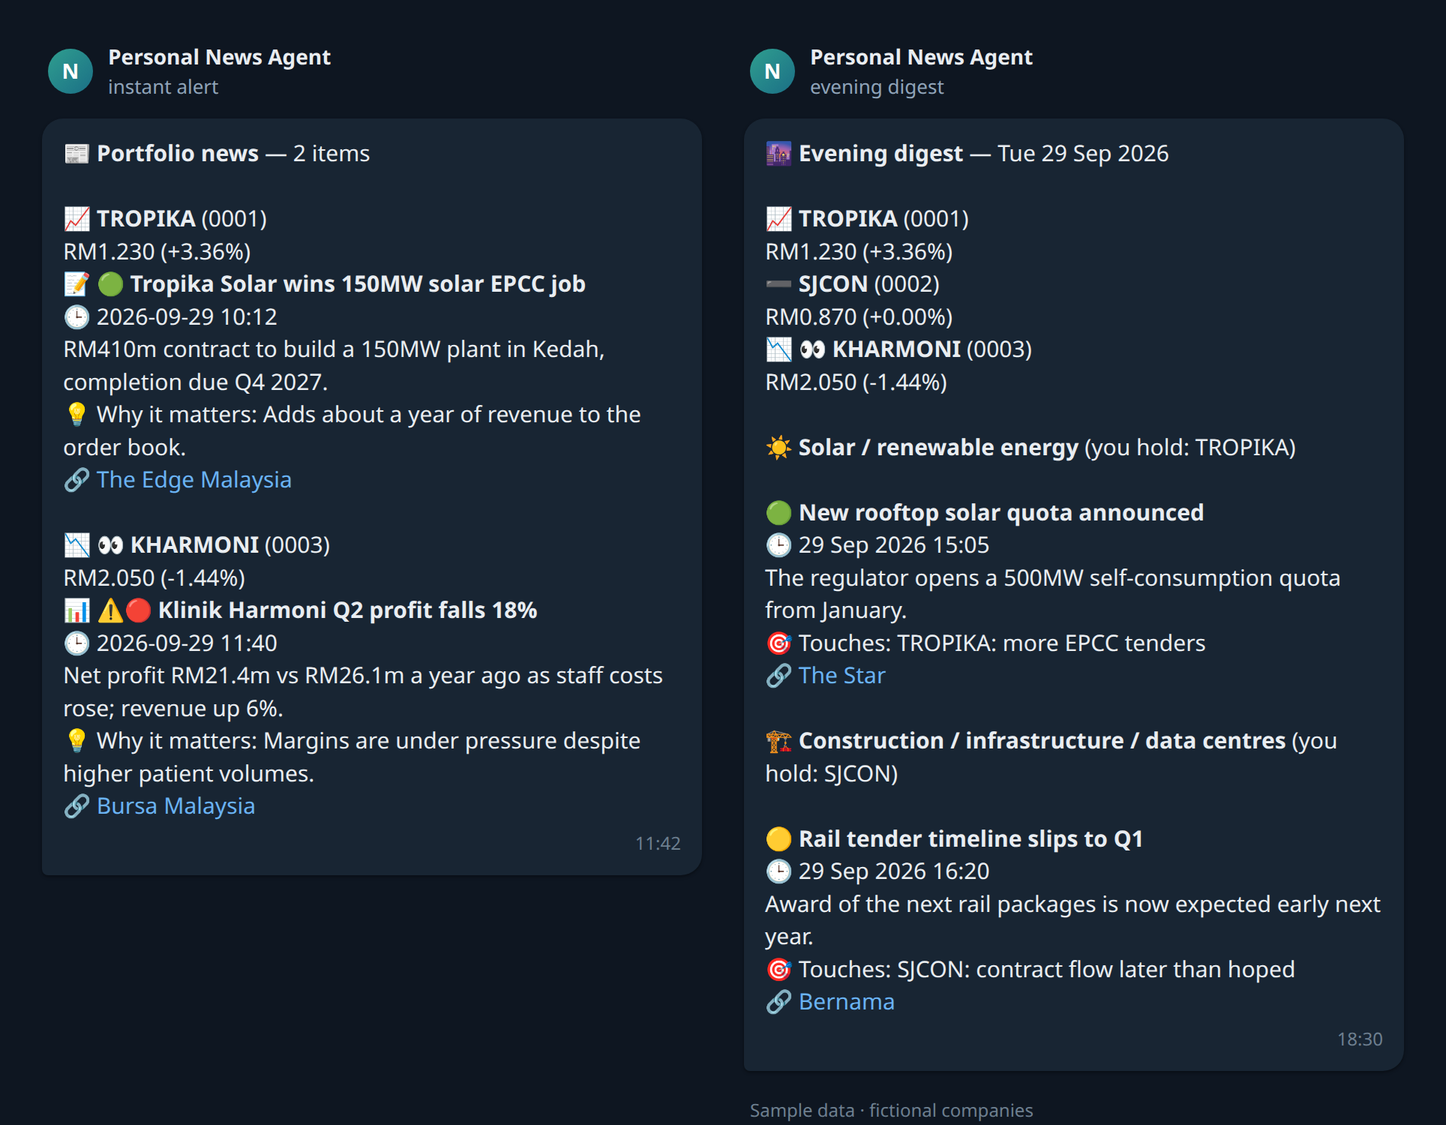
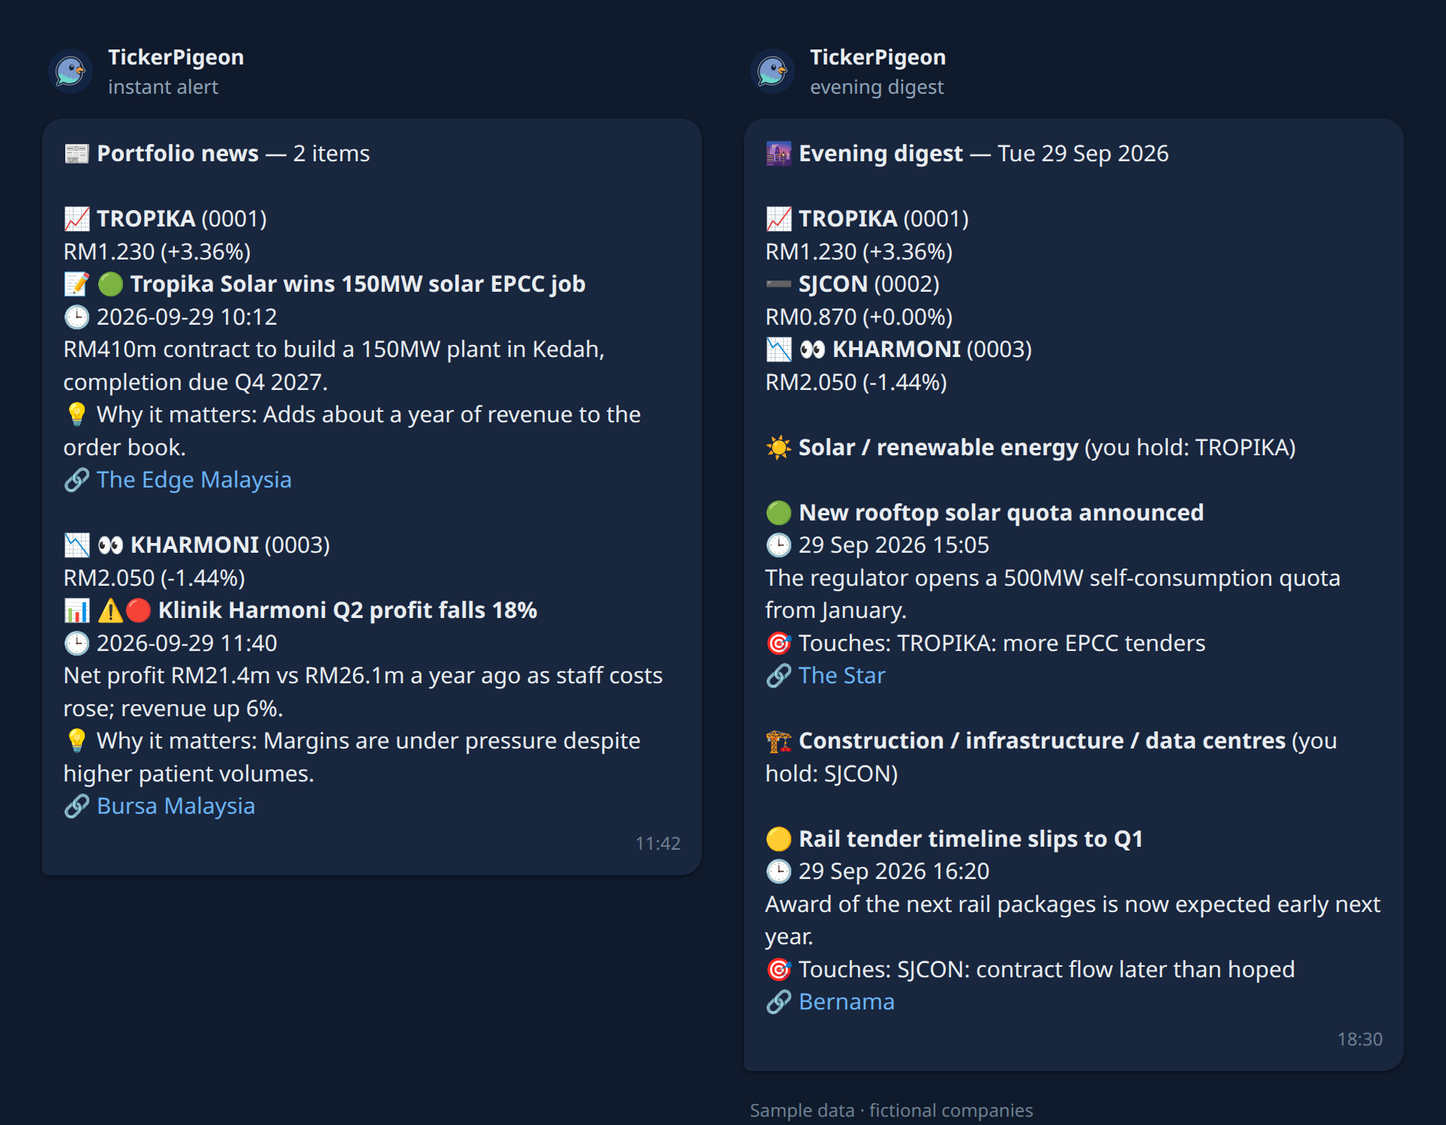
feat: rebrand to TickerPigeon
- Name: TickerPigeon everywhere (README, installer, setup wizard,
  --version, chat test message, skill descriptions, dashboard); repo
  URLs move to hanzong111/TickerPigeon, default install dir ~/TickerPigeon
- Brand assets in docs/brand/ (banner, social preview, logo, mark, bot
  avatar, Pip in five poses, palette tokens) with a short usage guide
- README: banner header with the brand tagline, Pip beside the feature,
  install, chat and FAQ sections
- Example screenshot regenerated with the TickerPigeon avatar and navy
- Dashboard: TickerPigeon title and favicon

Claude-Session: https://claude.ai/code/session_01LKwjQ8yWx4Jfha9MPzGwXt
(cherry picked from commit 04a10c3323f288a21396e7022aad226d8899b29b)

Changed region(s): [[0.4979, 0.0311, 0.7158, 0.0933], [0.0311, 0.0311, 0.249, 0.0933]]

diff --git a/pipeline/dashboard/static/index.html b/pipeline/dashboard/static/index.html
@@ -3,7 +3,9 @@
 <head>
 <meta charset="utf-8">
 <meta name="viewport" content="width=device-width, initial-scale=1">
-<title>Hermes Pipeline Arcade</title>
+<title>TickerPigeon · Pipeline Arcade</title>
+<link rel="icon" href="/static/favicon.ico" sizes="any">
+<meta name="theme-color" content="#18263E">
 <link rel="preconnect" href="https://fonts.googleapis.com">
 <link href="https://fonts.googleapis.com/css2?family=Press+Start+2P&family=VT323&display=swap" rel="stylesheet">
 <link rel="stylesheet" href="/static/style.css">
@@ -22,7 +24,7 @@
     <span class="logo" aria-hidden="true">H</span>
     <div class="brand-copy">
       <span class="eyebrow">WORLD 01 · MARKET OPS</span>
-      <h1>PIPELINE ARCADE</h1>
+      <h1>TICKERPIGEON</h1>
     </div>
     <span class="sub">BURSA · NEWS · HERMES</span>
   </div>

diff --git a/docs/brand/brand-tokens.css b/docs/brand/brand-tokens.css
@@ -1,0 +1,11 @@
+/* TickerPigeon brand palette */
+:root {
+  --tp-navy: #18263E;
+  --tp-slate: #7B91B9;
+  --tp-teal: #56B7AF;
+  --tp-orange: #F2A65A;
+  --tp-ivory: #FAF8F4;
+  --tp-text: var(--tp-navy);
+  --tp-background: var(--tp-ivory);
+  --tp-font: ui-sans-serif, system-ui, -apple-system, BlinkMacSystemFont, "Segoe UI", sans-serif;
+}

diff --git a/pipeline/setup.py b/pipeline/setup.py
@@ -52,7 +52,7 @@ def target(p: dict) -> str:
 
 
 def send_test(dest: str, run=subprocess.run) -> str:
-    msg = ("✅ Personal News Agent is connected.\n"
+    msg = ("✅ TickerPigeon is connected.\n"
            "Alerts, digests and reviews for your Bursa stocks will arrive here.")
     try:
         r = run(["hermes", "send", "-q", "-t", dest, msg], capture_output=True, text=True, timeout=60)
@@ -149,7 +149,7 @@ def apply(p: dict, dry_run: bool = False, jobs_file: Path | None = None, run=sub
 
 def cmd_status(_a) -> int:
     cfg, p = config.load(), prefs.load()
-    print(f"Personal News Agent {__version__}")
+    print(f"TickerPigeon {__version__}")
     print(f"Set up: {'yes' if onboarded(cfg) else 'no — run the setup flow'}")
     print("\n".join(portfolio_lines(cfg)))
     print("Messages:" + ("" if p["_exists"] else " (defaults — not chosen yet)"))
@@ -392,7 +392,7 @@ class Wizard:
 
     def run(self) -> int:
         cfg, p, data = config.load(), prefs.load(), portfolio.read()
-        self.say("Personal News Agent — setup\n"
+        self.say("TickerPigeon — setup\n"
                  "Four steps: the stocks you hold, a watchlist, your chat app, and which messages you want when.\n")
         if data["holdings"] or data["watchlist"]:
             self.say("\n".join(portfolio_lines(cfg)))
@@ -428,7 +428,7 @@ class Wizard:
 
 def main(argv=None) -> int:
     ap = argparse.ArgumentParser(prog="python -m pipeline.setup", description="Portfolio + news preference setup.")
-    ap.add_argument("--version", action="version", version=f"Personal News Agent {__version__}")
+    ap.add_argument("--version", action="version", version=f"TickerPigeon {__version__}")
     sub = ap.add_subparsers(dest="cmd")
     sub.add_parser("status")
     f = sub.add_parser("find"); f.add_argument("query")

diff --git a/tests/test_versioning.py b/tests/test_versioning.py
@@ -22,8 +22,8 @@ CHANGELOG = """# Changelog
 
 First public release.
 
-[Unreleased]: https://github.com/hanzong111/Personal-News-Agent/compare/v1.0.0...HEAD
-[1.0.0]: https://github.com/hanzong111/Personal-News-Agent/releases/tag/v1.0.0
+[Unreleased]: https://github.com/hanzong111/TickerPigeon/compare/v1.0.0...HEAD
+[1.0.0]: https://github.com/hanzong111/TickerPigeon/releases/tag/v1.0.0
 """
 
 
@@ -50,8 +50,8 @@ class BumpTest(unittest.TestCase):
     def test_changelog_moves_unreleased_notes_under_new_version(self):
         out = bump_version.changelog(CHANGELOG, "1.0.0", "1.1.0", "2026-10-15")
         self.assertIn("## [Unreleased]\n\n## [1.1.0] - 2026-10-15\n\n### Added\n- Discord threads.", out)
-        self.assertIn("[Unreleased]: https://github.com/hanzong111/Personal-News-Agent/compare/v1.1.0...HEAD", out)
-        self.assertIn("[1.1.0]: https://github.com/hanzong111/Personal-News-Agent/compare/v1.0.0...v1.1.0", out)
+        self.assertIn("[Unreleased]: https://github.com/hanzong111/TickerPigeon/compare/v1.1.0...HEAD", out)
+        self.assertIn("[1.1.0]: https://github.com/hanzong111/TickerPigeon/compare/v1.0.0...v1.1.0", out)
         self.assertEqual(1, len(re.findall(r"^\[Unreleased\]: ", out, re.M)))
 
     def test_refuses_an_empty_release(self):

diff --git a/scripts/bump_version.py b/scripts/bump_version.py
@@ -14,7 +14,7 @@ from datetime import date
 from pathlib import Path
 
 ROOT = Path(__file__).resolve().parent.parent
-REPO = "https://github.com/hanzong111/Personal-News-Agent"
+REPO = "https://github.com/hanzong111/TickerPigeon"
 SEMVER = re.compile(r"^(\d+)\.(\d+)\.(\d+)$")
 
 

diff --git a/pipeline/__init__.py b/pipeline/__init__.py
@@ -1,4 +1,4 @@
-"""Personal News Agent pipeline. The version lives in the repo-root VERSION file (Semantic Versioning)."""
+"""TickerPigeon pipeline. The version lives in the repo-root VERSION file (Semantic Versioning)."""
 from pathlib import Path
 
 try:

diff --git a/README.md b/README.md
@@ -1,13 +1,16 @@
-<h1 align="center">Personal News Agent</h1>
-
 <p align="center">
-  Your own Bursa Malaysia newsletter: alerts when news names a stock you hold or watch,<br>
-  delivered to Telegram, Discord, Slack, WhatsApp or any chat app Hermes Agent supports.
+  <img src="docs/brand/readme-banner.jpg" alt="TickerPigeon. Your stocks. Your news. Your chat. News about the stocks you hold, delivered to your chat." width="820">
 </p>
 
 <p align="center">
-  <a href="https://github.com/hanzong111/Personal-News-Agent/actions/workflows/ci.yml"><img src="https://github.com/hanzong111/Personal-News-Agent/actions/workflows/ci.yml/badge.svg" alt="CI"></a>
-  <a href="https://github.com/hanzong111/Personal-News-Agent/releases"><img src="https://img.shields.io/github/v/release/hanzong111/Personal-News-Agent" alt="Latest release"></a>
+  <b>Your personal stock-news messenger for Bursa Malaysia.</b><br>
+  Alerts when news names a stock you hold or watch, delivered to Telegram, Discord, Slack,<br>
+  WhatsApp or any chat app Hermes Agent supports.
+</p>
+
+<p align="center">
+  <a href="https://github.com/hanzong111/TickerPigeon/actions/workflows/ci.yml"><img src="https://github.com/hanzong111/TickerPigeon/actions/workflows/ci.yml/badge.svg" alt="CI"></a>
+  <a href="https://github.com/hanzong111/TickerPigeon/releases"><img src="https://img.shields.io/github/v/release/hanzong111/TickerPigeon" alt="Latest release"></a>
   <a href="LICENSE"><img src="https://img.shields.io/badge/license-MIT-green" alt="MIT license"></a>
   <img src="https://img.shields.io/badge/python-3.10%2B-blue?logo=python&logoColor=white" alt="Python 3.10+">
   <a href="https://github.com/NousResearch/hermes-agent"><img src="https://img.shields.io/badge/built%20on-Hermes%20Agent-7b3fe4" alt="Built on Hermes Agent"></a>
@@ -31,10 +34,10 @@
 > source before you act. Some news sites limit automated access in their terms. Read the
 > [disclaimer](#disclaimer) before you run it.
 
-A self-hosted agent that watches the news for the Bursa Malaysia stocks you hold, a watchlist of
-stocks you're considering, and the sectors they belong to. It pushes short, skimmable briefs to
-your chat app, so you don't have to go looking. It sends a message only when news names one of
-your stocks or touches its sector. It never sends "quiet day" filler.
+TickerPigeon is an open-source agent that follows the news about the Bursa Malaysia stocks you
+hold, a watchlist of stocks you're considering, and the sectors they belong to. Pip, our courier
+pigeon, brings short, skimmable briefs to your chat app, so you don't have to go looking. Pip only
+flies when news names one of your stocks or touches its sector. There's no "quiet day" filler.
 
 ## Features
 
@@ -44,6 +47,8 @@ your stocks or touches its sector. It never sends "quiet day" filler.
 | 🌆 **Evening digest** | 18:30 Mon–Fri. Skipped if empty. | Sector and market news for the industries you hold (policy, commodities, contract flow, the Budget…), with the stocks each item touches. |
 | 📅 **Weekly review** | Friday 20:00 | Each holding's week against the FBM KLCI, what moved and why, what to watch next week, suggestions and cautions. |
 | 🗞 **Malaysia headlines** | 09:00 / 14:00 / 21:00 | A tiered index of general Malaysian news. Reply "more politics" for the full list. |
+
+<img src="docs/brand/pip-reading.webp" alt="" width="150" align="right">
 
 - **Guided setup**, in the terminal or by sending `/setup` to your bot: search stocks by name
   or code, add a watchlist, pick your chat app, and choose which messages arrive when.
@@ -86,15 +91,17 @@ flowchart LR
 On Linux, macOS or Windows (in WSL2), run:
 
 ```bash
-curl -fsSL https://raw.githubusercontent.com/hanzong111/Personal-News-Agent/main/bootstrap.sh | bash
+curl -fsSL https://raw.githubusercontent.com/hanzong111/TickerPigeon/main/bootstrap.sh | bash
 ```
+
+<img src="docs/brand/pip-waving.webp" alt="" width="150" align="right">
 
 This installs everything that's missing and walks you through setup. It's safe to run again:
 finished steps are skipped and nothing is duplicated. What it touches:
 
 - **Asks first:** installing system packages with `sudo`, changing the time zone, and installing
   the Hermes gateway as a user service (systemd or launchd).
-- **Writes:** the project folder (default `~/Personal-News-Agent`), Hermes Agent in `~/.hermes`
+- **Writes:** the project folder (default `~/TickerPigeon`), Hermes Agent in `~/.hermes`
   (via [its official installer](https://hermes-agent.nousresearch.com)), and this project's
   wrapper scripts and chat skills in `~/.hermes/scripts` and `~/.hermes/skills`.
 - **Downloads from:** GitHub (this repo), the Hermes installer site, your Linux distribution or
@@ -105,14 +112,14 @@ finished steps are skipped and nothing is duplicated. What it touches:
 **Prefer not to pipe to bash?** Clone it, read the script, then run it:
 
 ```bash
-git clone https://github.com/hanzong111/Personal-News-Agent.git
-cd Personal-News-Agent
+git clone https://github.com/hanzong111/TickerPigeon.git
+cd TickerPigeon
 less bootstrap.sh
 ./bootstrap.sh
 ```
 
 Options: `--yes` (answer yes to install questions), `--dir DIR` (where to clone, default
-`~/Personal-News-Agent`), `--deliver discord` (pre-select your chat app), `--with-router` (install
+`~/TickerPigeon`), `--deliver discord` (pre-select your chat app), `--with-router` (install
 the chat model router), `--skip-hermes-setup`.
 
 ## Prerequisites
@@ -154,7 +161,7 @@ Yahoo Finance, Anthropic and your chat app.
 ```bash
 curl -fsSL https://hermes-agent.nousresearch.com/install.sh | bash   # Hermes Agent
 hermes setup                                                         # AI provider + chat app
-git clone https://github.com/hanzong111/Personal-News-Agent.git && cd Personal-News-Agent
+git clone https://github.com/hanzong111/TickerPigeon.git && cd TickerPigeon
 ./hermes/install.sh                                                  # venv, deps, wrappers, skills
 ./hermes/cron/create-jobs.sh                                         # scheduled jobs
 hermes gateway install && hermes gateway start                       # scheduler as a service
@@ -326,6 +333,8 @@ easy ones run on your default model. Install it with `./hermes/install.sh --with
 
 ### From chat
 
+<img src="docs/brand/pip-flying.webp" alt="" width="150" align="right">
+
 Just talk to your Hermes bot. The `bursa-setup`, `bursa-portfolio` and `malaysia-news` skills handle:
 
 - "/setup": the onboarding conversation (stocks, watchlist, messages and times)
@@ -405,7 +414,7 @@ tests/              pytest suite
 ## Updating
 
 ```bash
-cd ~/Personal-News-Agent
+cd ~/TickerPigeon
 ./bootstrap.sh          # pulls the latest code and refreshes the copies in ~/.hermes
 ```
 
@@ -415,19 +424,21 @@ stocks, preferences and news history in `data/` are never touched by an update.
 Releases follow [Semantic Versioning](https://semver.org/): a major version (2.0.0) means a
 breaking change, so read its notes first. Check your version with
 `./.venv/bin/python -m pipeline.setup --version`. See [CHANGELOG.md](CHANGELOG.md) or the
-[releases page](https://github.com/hanzong111/Personal-News-Agent/releases) for what changed.
+[releases page](https://github.com/hanzong111/TickerPigeon/releases) for what changed.
 
 ## Uninstalling
 
 ```bash
 ./hermes/uninstall.sh   # removes this project's cron jobs, scripts, skills and plugin from ~/.hermes
-rm -rf ~/Personal-News-Agent
+rm -rf ~/TickerPigeon
 ```
 
 Hermes Agent itself stays installed. Remove it with its own uninstaller if you don't use it for
 anything else.
 
 ## FAQ
+
+<img src="docs/brand/pip-quiet.webp" alt="" width="150" align="right">
 
 **What does it cost to run?** On the author's install (6 holdings, every message type on), the
 scheduled messages cost about **US$0.45 a day, roughly $13.50 a month** at Anthropic's list prices.
@@ -493,7 +504,8 @@ pull request into `develop`. `main` holds releases and only the maintainer merge
 
 ## License and credits
 
-[MIT](LICENSE) © 2026 hanzong111.
+[MIT](LICENSE) © 2026 hanzong111. The TickerPigeon name, logo and Pip artwork are in
+[`docs/brand/`](docs/brand/).
 
 Built on [Hermes Agent](https://github.com/NousResearch/hermes-agent) by Nous Research, with
 [Claude](https://www.anthropic.com/claude) models by Anthropic. Market data comes from Yahoo

diff --git a/docs/brand/README.md b/docs/brand/README.md
@@ -1,0 +1,44 @@
+# TickerPigeon brand assets
+
+A small selection from the TickerPigeon brand pack, the files this repository uses. The name is
+spelled **TickerPigeon**, and the mascot is **Pip**, an attentive little news courier.
+
+| File | Use |
+|---|---|
+| `readme-banner.jpg` | README header (1600×800) |
+| `github-social.jpg` | Repository social preview (1280×640). Set it in **Settings → General → Social preview** |
+| `logo-light.png`, `logo-light.webp` | Logo for light backgrounds, transparent |
+| `pigeon-mark.png` | Compact symbol, transparent (256 px) |
+| `avatar.png` | Profile picture for your chat bot, navy (512 px). In Telegram: @BotFather → `/setuserpic` |
+| `pip-delivering.webp` | Product introduction |
+| `pip-waving.webp` | Welcome and setup |
+| `pip-reading.webp` | News and digests |
+| `pip-flying.webp` | Delivery |
+| `pip-quiet.webp` | Quiet hours, no new stories |
+| `brand-tokens.css` | Colour tokens |
+
+The dashboard favicon lives at `pipeline/dashboard/static/favicon.ico`.
+
+## Palette
+
+| Colour | Hex | Use |
+|---|---|---|
+| Navy | `#18263E` | Text, outlines, dark surfaces |
+| Slate blue | `#7B91B9` | Pip's body, secondary accents |
+| Teal | `#56B7AF` | Neck patch, highlights |
+| Orange | `#F2A65A` | Beak, feet, small accents |
+| Ivory | `#FAF8F4` | Light surfaces, reversed type |
+
+## Copy
+
+- Tagline: **Your stocks. Your news. Your chat.**
+- Descriptor: **Your personal stock-news messenger.**
+- One sentence: **An open-source agent that follows news about the stocks you hold and delivers
+  updates to your messaging app.**
+
+## Usage
+
+- Keep artwork at its original aspect ratio.
+- Leave clear space around the logo of at least half the bird icon's height.
+- Use the transparent navy-lettered logo on light surfaces, and the navy avatar for profile pictures.
+- These are raster files; there's no editable vector source.

diff --git a/CHANGELOG.md b/CHANGELOG.md
@@ -6,6 +6,11 @@ All notable changes to this project are listed here. The format follows
 
 ## [Unreleased]
 
+### Changed
+- Renamed to **TickerPigeon**, with a new logo, the mascot Pip, a README banner and a dashboard
+  favicon (assets in `docs/brand/`). The repository moves to `hanzong111/TickerPigeon`, and the
+  installer's default folder is now `~/TickerPigeon`.
+
 ## [1.0.0] - 2026-09-28
 
 First public release.
@@ -31,5 +36,5 @@ First public release.
 - Versioning: Semantic Versioning from the `VERSION` file, `scripts/bump_version.py` to cut a
   release, and a workflow that tags `vX.Y.Z` and publishes the GitHub Release when `main` changes.
 
-[Unreleased]: https://github.com/hanzong111/Personal-News-Agent/compare/v1.0.0...HEAD
-[1.0.0]: https://github.com/hanzong111/Personal-News-Agent/releases/tag/v1.0.0
+[Unreleased]: https://github.com/hanzong111/TickerPigeon/compare/v1.0.0...HEAD
+[1.0.0]: https://github.com/hanzong111/TickerPigeon/releases/tag/v1.0.0

diff --git a/hermes/skills/bursa-setup/SKILL.md b/hermes/skills/bursa-setup/SKILL.md
@@ -1,6 +1,6 @@
 ---
 name: bursa-setup
-description: "First-time setup and later changes for the Bursa news agent: which stocks the user holds, a watchlist, which chat app messages go to, and which messages (alerts, digest, weekly, headlines) they get at what times."
+description: "TickerPigeon setup: first-time onboarding and later changes — which stocks the user holds, a watchlist, which chat app messages go to, and which messages (alerts, digest, weekly, headlines) they get at what times."
 version: 1.0.0
 author: hanzong111
 license: MIT

diff --git a/CONTRIBUTING.md b/CONTRIBUTING.md
@@ -63,8 +63,8 @@ workflow tags `v1.1.0` and publishes a GitHub Release with that CHANGELOG sectio
 ## Development setup
 
 ```bash
-git clone https://github.com/hanzong111/Personal-News-Agent.git
-cd Personal-News-Agent
+git clone https://github.com/hanzong111/TickerPigeon.git
+cd TickerPigeon
 python3 -m venv .venv
 ./.venv/bin/python -m pip install -r requirements-dev.txt
 ./.venv/bin/python -m pytest -q

diff --git a/hermes/skills/bursa-portfolio/SKILL.md b/hermes/skills/bursa-portfolio/SKILL.md
@@ -1,6 +1,6 @@
 ---
 name: bursa-portfolio
-description: "Bursa Malaysia holdings: what the user owns, sectors, live prices, add/remove stocks, check for news."
+description: "TickerPigeon portfolio (Bursa Malaysia holdings): what the user owns, sectors, live prices, add/remove stocks, check for news."
 version: 1.0.0
 author: hanzong111
 license: MIT
